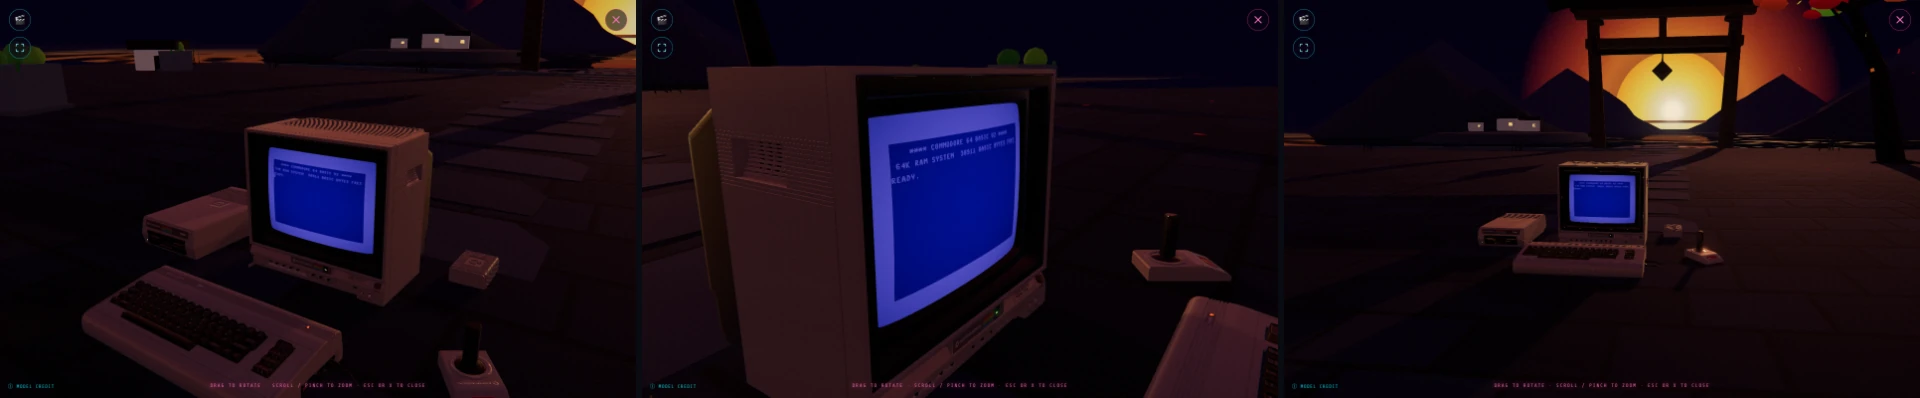
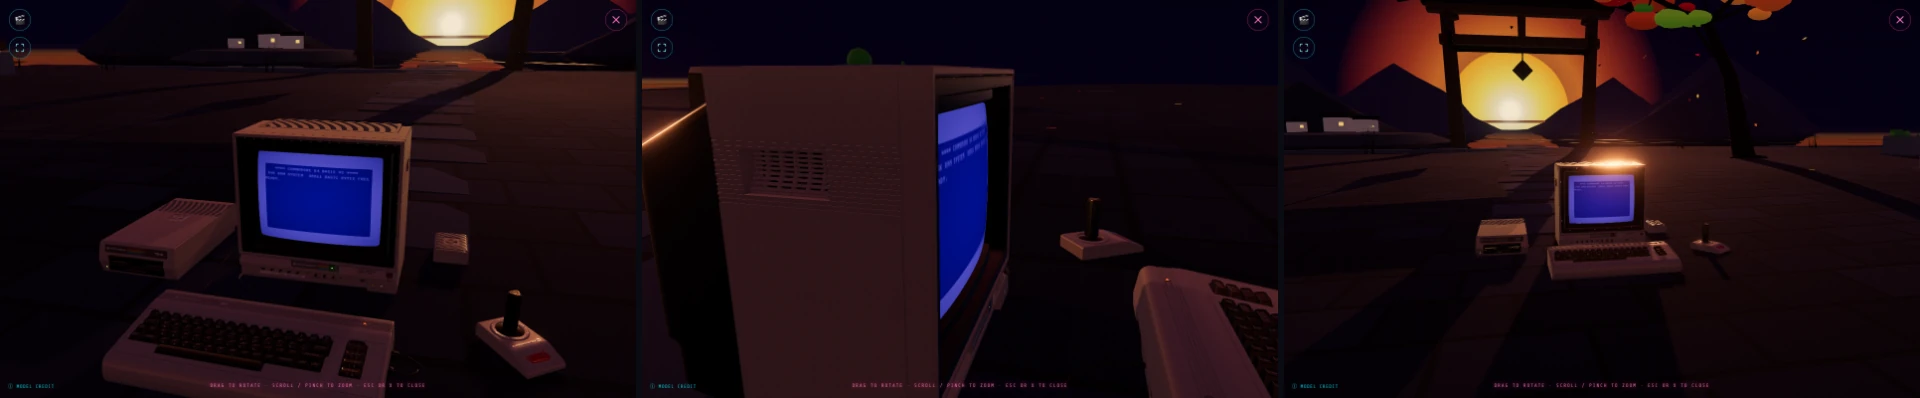
Re-shoot the IK+ guide shots

diff --git a/src/sw.js b/src/sw.js
@@ -29,7 +29,7 @@ precache(self.__WB_MANIFEST);
 // GLBs, and the guide screenshots the docs embed. Versioned so bumping a suffix
 // drops stale copies on activate.
 const MODEL_CACHE = 'c64emu-models-v3';
-const GUIDE_CACHE = 'c64emu-guide-v4';
+const GUIDE_CACHE = 'c64emu-guide-v5';
 const RUNTIME_CACHES = [MODEL_CACHE, GUIDE_CACHE];
 
 // Network-only analytics markers (empty pages in public/, beacons in main.js).
